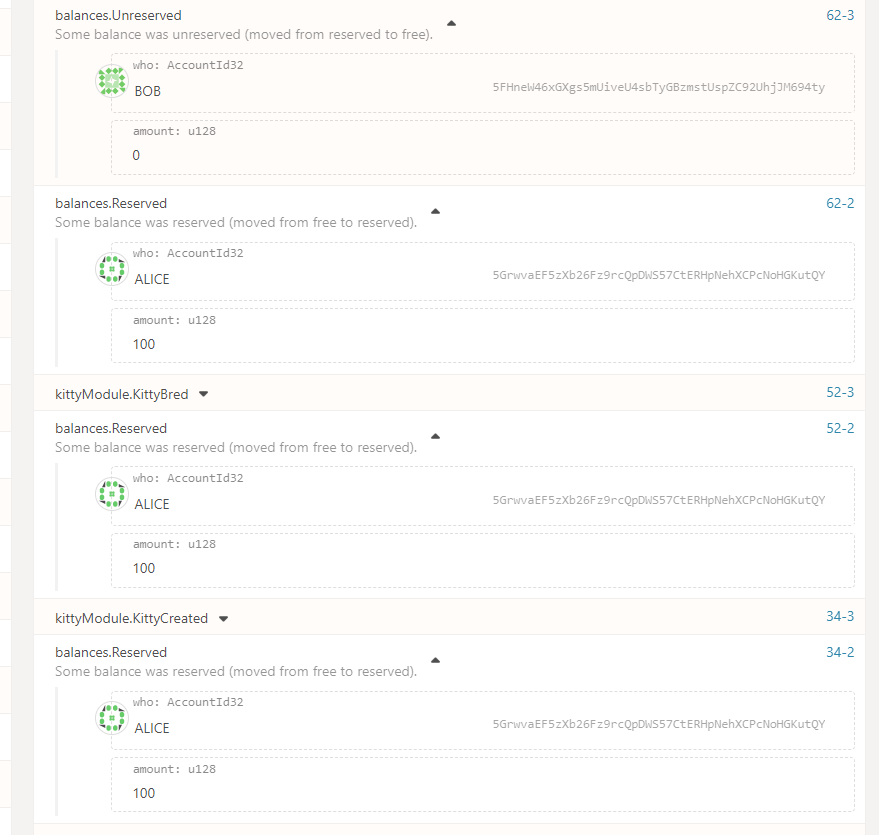
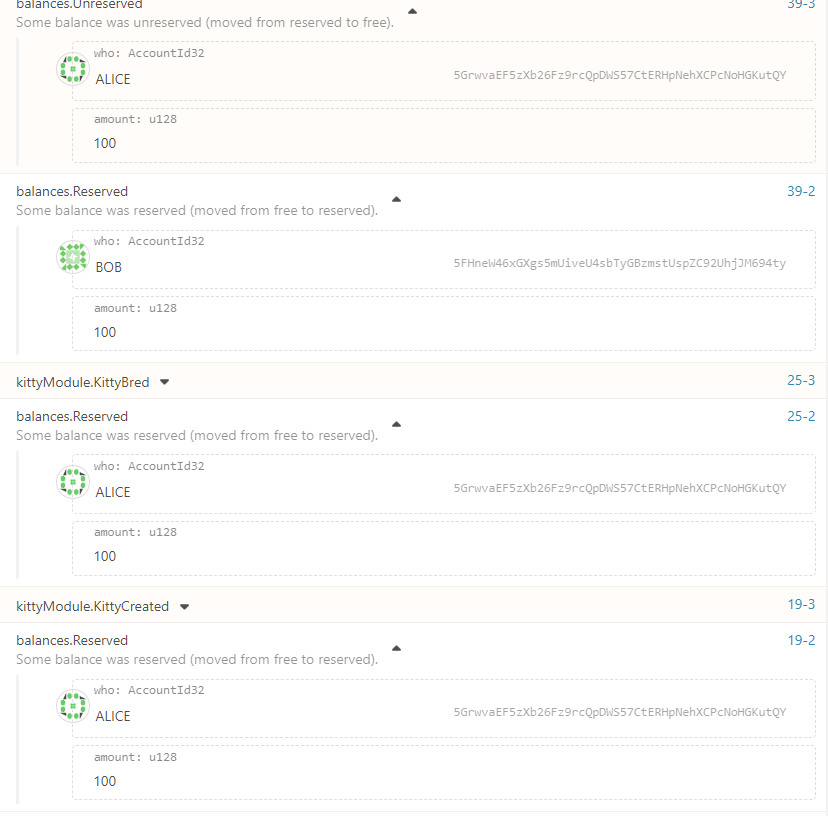
change readme and fix a bug for transfer kitty

diff --git a/pallets/kitties/src/lib.rs b/pallets/kitties/src/lib.rs
@@ -160,8 +160,8 @@ use sp_std::prelude::*;
 			ensure!(Self::kitty_owner(kitty_id) == Some(who.clone()), Error::<T>::NotOwner);			
 			let price = T::Price::get();
 			// reserve balance with price for new owner and then unreserve for old owner
-			T::Currency::reserve(&who, price).map_err(|_| Error::<T>::NotEnoughBalance)?;
-			T::Currency::unreserve(&new_owner, price);			
+			T::Currency::reserve(&new_owner, price).map_err(|_| Error::<T>::NotEnoughBalance)?;
+			T::Currency::unreserve(&who, price);
 			// take action to save data
 			<KittyOwner<T>>::insert(kitty_id, new_owner.clone());			
 			KittiesByOwner::<T>::try_mutate(&who,|ref mut kitties|{
@@ -169,7 +169,6 @@ use sp_std::prelude::*;
 				kitties.remove(index);
 				Ok::<(), DispatchError>(())
 			})?;
-			let kitty = Self::get_kitty(kitty_id).map_err(|_| Error::<T>::InvalidKittyId)?;
 			KittiesByOwner::<T>::try_mutate(&new_owner,|ref mut kitties|{				
 				kitties.try_push(kitty_id).map_err(|_|Error::<T>::TooMuchKitties)?;
 				Ok::<(), DispatchError>(())
